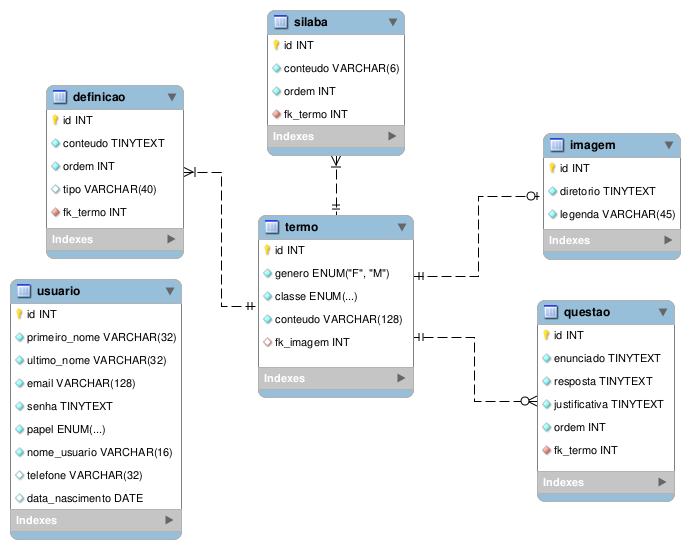
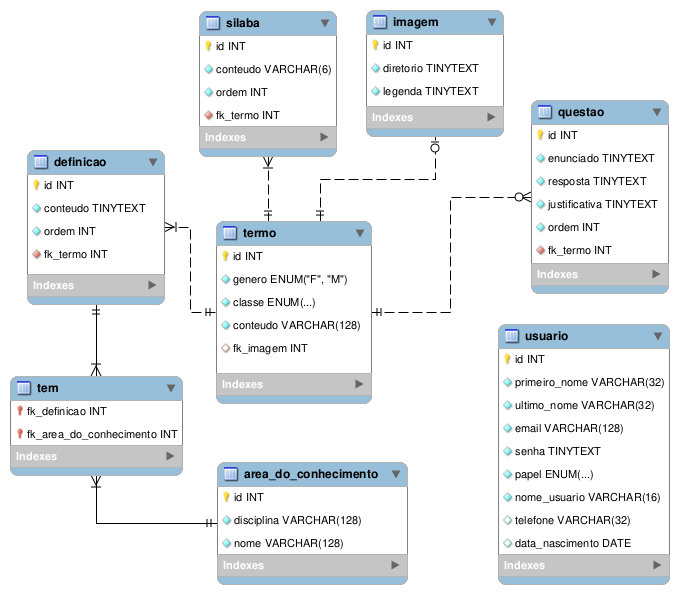
update db_diagrams

diff --git a/app/templates/search_entry.html b/app/templates/search_entry.html
@@ -12,9 +12,9 @@
                     <h5 class="card-title fw-bold fs-3 mt-1 mb-4">{{ term.content }}</h5>
                     <ol class="d-flex flex-column gap-2">
                         {% for definition in term.get_definitions() %}
-                            {% if definition.related_math_area %}
+                            {% if definition.related_knowledge_area %}
                                 <li class="area">
-                                    <span class="border p-1 rounded" style="font-size: 14px; font-family: monospace">{{ definition.related_math_area }}</span><br>{{ definition.content }}</li>
+                                    <span class="border p-1 rounded" style="font-size: 14px; font-family: monospace">{{ definition.related_knowledge_area }}</span><br>{{ definition.content }}</li>
                             {% else %}
                                 <li>{{ definition.content }}</li>
                             {% endif %}

diff --git a/app/templates/entry.html b/app/templates/entry.html
@@ -29,9 +29,9 @@
                 <div class="sig d-flex justify-content-between" id="significado">
                     <ol class="significado-conteudo m-5 lh-lg">
                         {% for definition in term.get_definitions() %}
-                            {% if definition.related_math_area %}
+                            {% if definition.related_knowledge_area %}
                                 <li class="area">
-                                    <span>{{ definition.related_math_area }}</span><br>{{ definition.content }}</li>
+                                    <span>{{ definition.related_knowledge_area }}</span><br>{{ definition.content }}</li>
                             {% else %}
                                 <li>{{ definition.content }}</li>
                             {% endif %}

diff --git a/app/models/tables.py b/app/models/tables.py
@@ -172,9 +172,9 @@ class Definition(db.Model):
 
     id = db.Column(db.Integer, primary_key=True, autoincrement=True)
     content = db.Column(db.String(MAX_LENGTH['content']), nullable=False)
-    related_math_area = db.Column(
+    related_knowledge_area = db.Column(
         db.Enum('álgebra', 'cálculo', 'geometria', 'estatística e probabilidade',
-                'trigonometria', 'teoria dos números', 'matemática discreta')
+                'trigonometria', 'teoria dos números', 'matemática discreta', 'física')
     )
     order = db.Column(db.Integer, nullable=False)
     term_id = db.Column(db.Integer, db.ForeignKey('term.id'))
